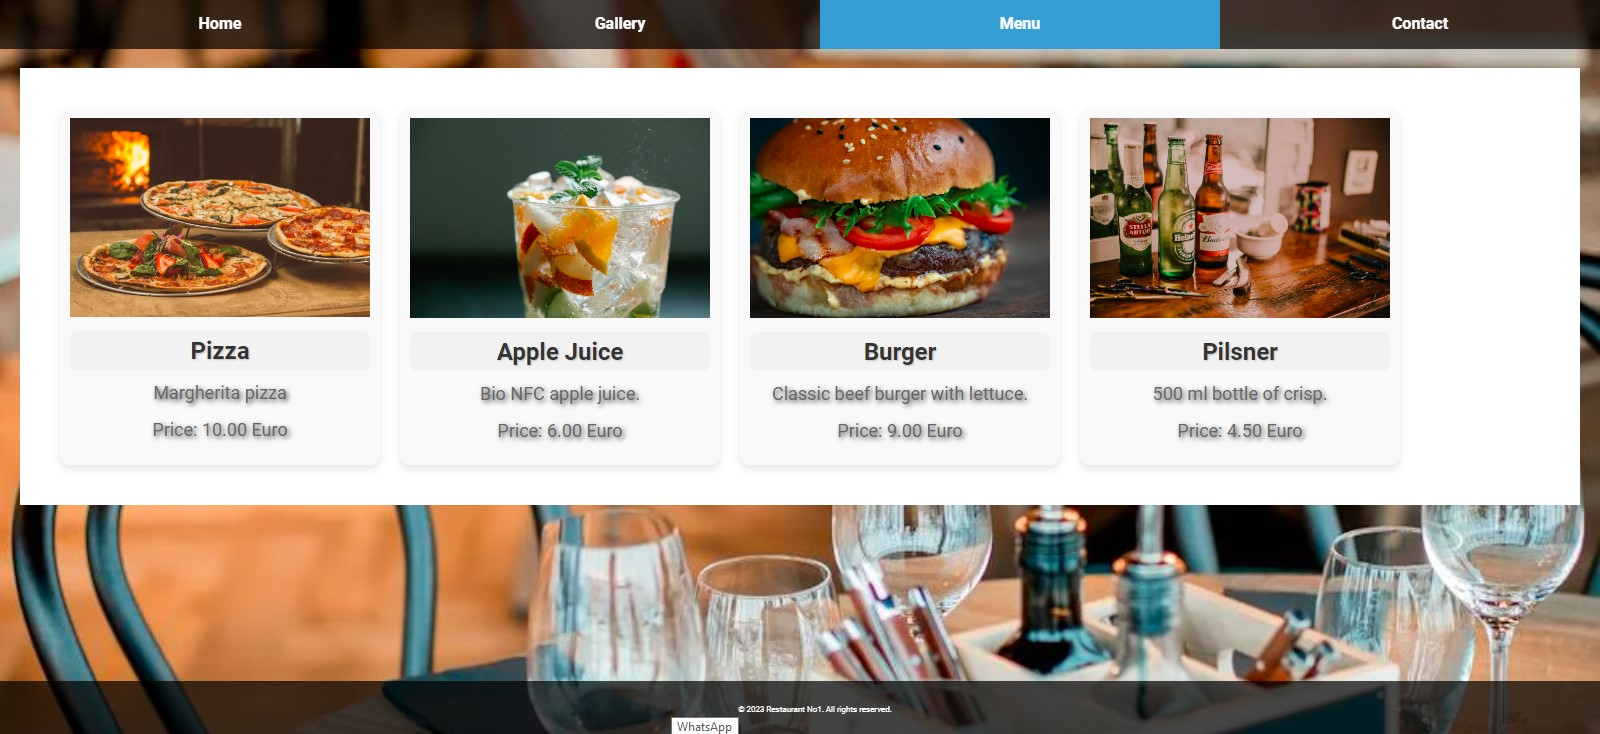
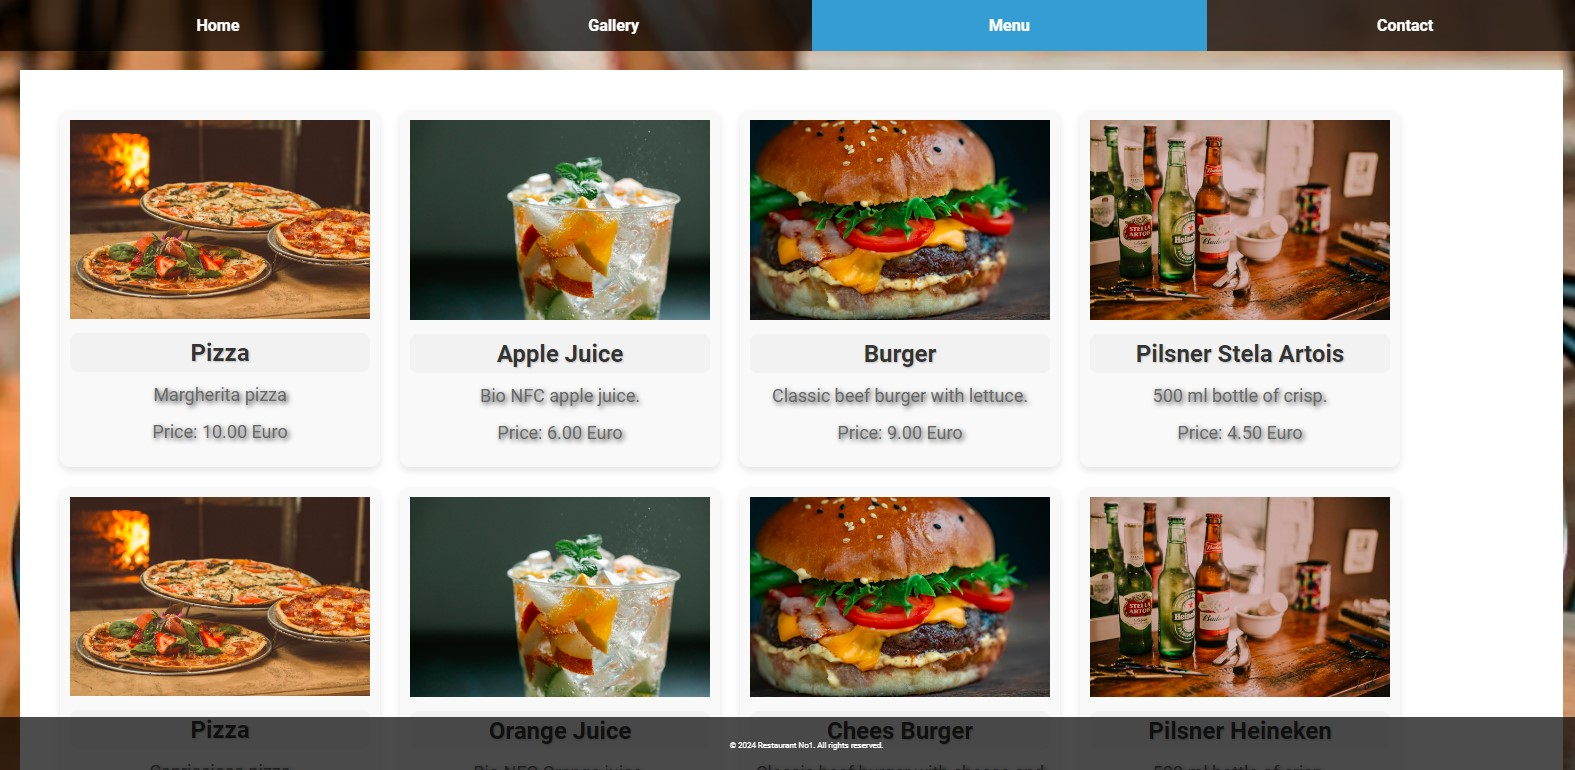
Update readme

diff --git a/main/templates/homepage.html b/main/templates/homepage.html
@@ -424,7 +424,43 @@
               src="https://images.pexels.com/photos/667986/pexels-photo-667986.jpeg?auto=compress&cs=tinysrgb&w=1260&h=750&dpr=2"
               alt="Baklava"
             />
-            <h3>Pilsner</h3>
+            <h3>Pilsner Stela Artois</h3>
+            <p>500 ml bottle of crisp.</p>
+            <p>Price: 4.50 Euro</p>
+          </div>
+          <div class="menu-item">
+            <img
+              src="https://images.pexels.com/photos/1566837/pexels-photo-1566837.jpeg?auto=compress&cs=tinysrgb&w=1260&h=750&dpr=2"
+              alt="Ananas Juice"
+            />
+            <h3>Pizza</h3>
+            <p>Capricciosa pizza</p>
+            <p>Price: 12.00 Euro</p>
+          </div>
+          <div class="menu-item">
+            <img
+              src="https://images.pexels.com/photos/8679559/pexels-photo-8679559.jpeg?auto=compress&cs=tinysrgb&w=1260&h=750&dpr=2"
+              alt="Apple Juice"
+            />
+            <h3>Orange Juice</h3>
+            <p>Bio NFC Orange juice.</p>
+            <p>Price: 6.00 Euro</p>
+          </div>
+          <div class="menu-item">
+            <img
+              src="https://images.pexels.com/photos/1639557/pexels-photo-1639557.jpeg?auto=compress&cs=tinysrgb&w=1260&h=750&dpr=2"
+              alt="Baklava"
+            />
+            <h3>Chees Burger</h3>
+            <p>Classic beef burger with cheese and lettuce.</p>
+            <p>Price: 10.00 Euro</p>
+          </div>
+          <div class="menu-item">
+            <img
+              src="https://images.pexels.com/photos/667986/pexels-photo-667986.jpeg?auto=compress&cs=tinysrgb&w=1260&h=750&dpr=2"
+              alt="Baklava"
+            />
+            <h3>Pilsner Heineken</h3>
             <p>500 ml bottle of crisp.</p>
             <p>Price: 4.50 Euro</p>
           </div>
@@ -446,7 +482,7 @@
       </div>
     </div>
     <div class="footer">
-      <p>&copy; 2023 Restaurant No1. All rights reserved.</p>
+      <p>&copy; 2024 Restaurant No1. All rights reserved.</p>
     </div>
     <script>
       document.addEventListener("DOMContentLoaded", () => {
